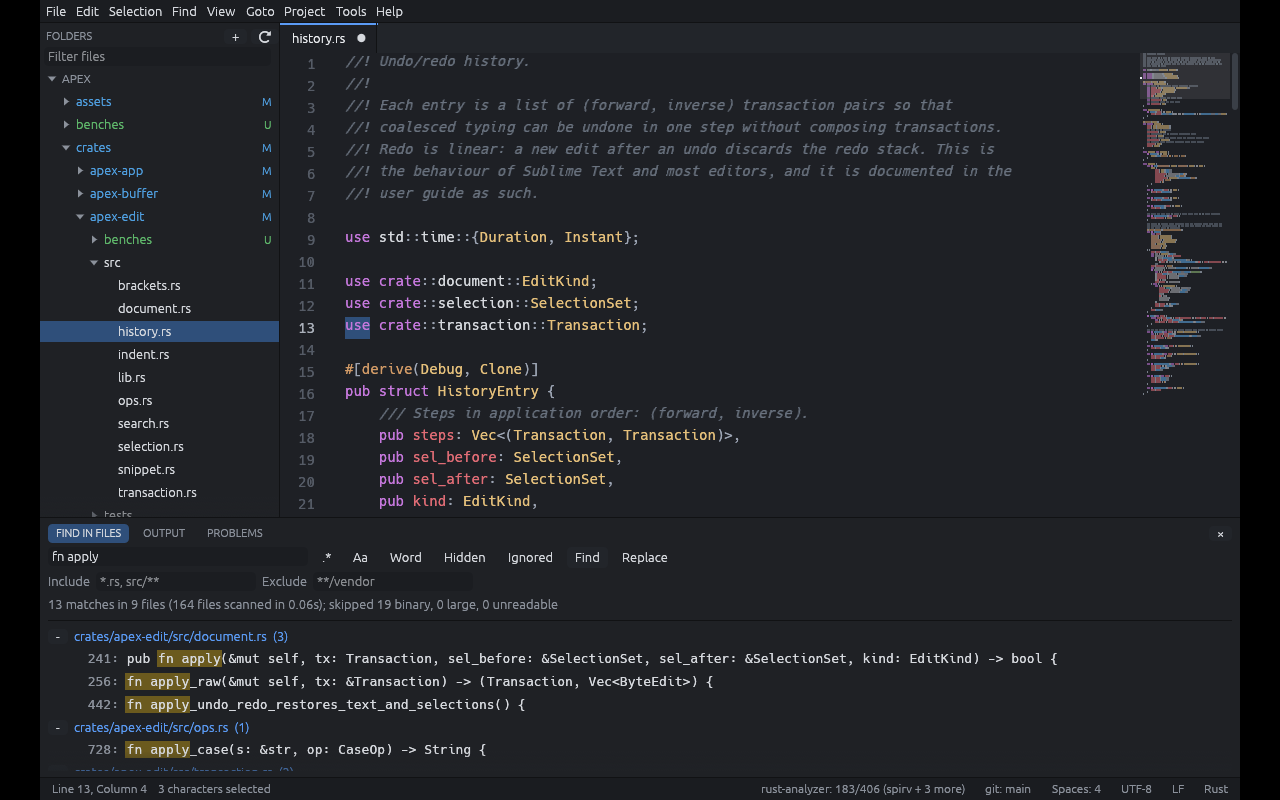
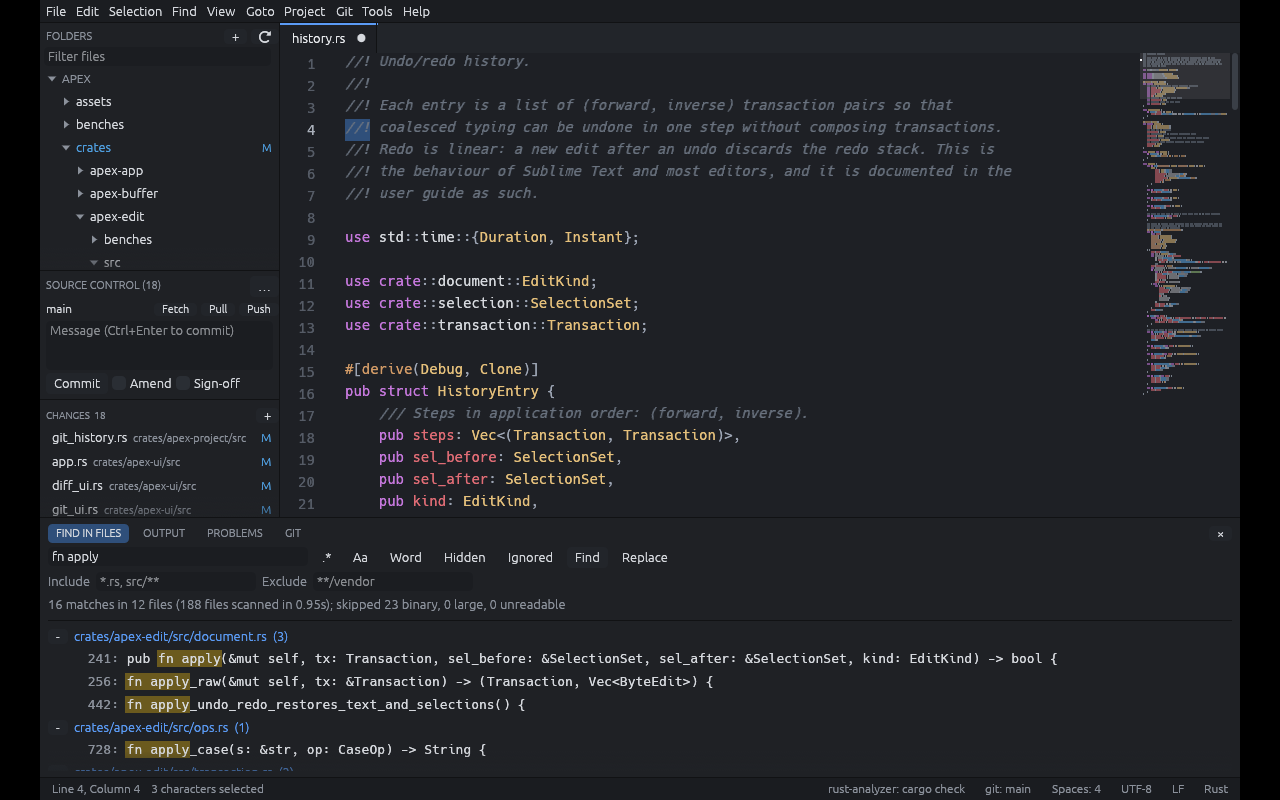
Docs: git screenshots (side-by-side, log, conflict, history editor) from tests/visual/screenshots.sh, security review of git/gh/askpass/history rewriting, architecture, README, progress log; diff opens aligned; history editor lists commits topologically; file history opens the commit; no blame colum

diff --git a/crates/apex-ui/src/git_ui.rs b/crates/apex-ui/src/git_ui.rs
@@ -345,11 +345,11 @@ impl ApexApp {
                                 label: format!("{}  {}", e.short_id, e.summary),
                                 detail: format!("{}  {}", e.date, e.author),
                                 shortcut: String::new(),
-                                payload: Payload::Text(e.id.clone()),
+                                payload: Payload::Command(Command::GitShowCommit, Some(e.id.clone())),
                                 boost: 0,
                             })
                             .collect();
-                        self.palette.show_with(PaletteMode::Prompt("history".into()), items, "File history (Enter copies the commit id)", "");
+                        self.palette.show_with(PaletteMode::Prompt("history".into()), items, "File history (Enter shows the commit)", "");
                     }
                     Err(e) => self.set_status(format!("History failed: {}", e.message()), true),
                 }

diff --git a/crates/apex-ui/src/diff_ui.rs b/crates/apex-ui/src/diff_ui.rs
@@ -305,9 +305,12 @@ impl ApexApp {
 
     fn diff_sync_scroll(&mut self, tab: ViewId, blocks: &[Block]) -> bool {
         let (Some(now), Some(st)) = (self.diff_positions(tab), self.diffs.get(&tab)) else { return false };
-        let Some(last) = st.last else { return false };
         let right_view = st.right_view;
-        let (left_moved, right_moved) = (now.0 != last.0 || now.1 != last.1, now.2 != last.2 || now.3 != last.3);
+        // First frame: the focused side (where the first change was put in view) leads.
+        let (left_moved, right_moved) = match st.last {
+            Some(last) => (now.0 != last.0 || now.1 != last.1, now.2 != last.2 || now.3 != last.3),
+            None => (!st.right_focused, st.right_focused),
+        };
         if left_moved {
             let target = diff_align::map_line(blocks, now.0 as f32, true).round() as usize;
             if let Some(r) = self.views.get_mut(&right_view) {

diff --git a/crates/apex-ui/src/app.rs b/crates/apex-ui/src/app.rs
@@ -3590,9 +3590,10 @@ impl ApexApp {
         self.syntax_tick(did);
         let fold_regions = self.fold_regions_for(did);
         let git_marks = self.git_marks_for(did);
-        let blame = self.git_blame_column(did, char_width);
+        // Blame belongs to the file's own tab, not to the halves of a diff.
+        let blame = if diff_side.is_none() { self.git_blame_column(did, char_width) } else { None };
         let conflict_tints = if tints.is_none() { self.git_conflicts(did).map(|(t, _)| t) } else { None };
-        let inline_note = if self.settings.git_blame_inline && focused { self.git_blame_caret_note() } else { None };
+        let inline_note = if self.settings.git_blame_inline && focused && diff_side.is_none() { self.git_blame_caret_note() } else { None };
         let mut diagnostics = self.diagnostics_for(did);
         if self.spell_enabled_for(did) {
             let (first, count) = {

diff --git a/crates/apex-project/src/git_history.rs b/crates/apex-project/src/git_history.rs
@@ -89,7 +89,7 @@ pub fn load(c: &JobCtx) -> Result<(RepoFacts, Vec<CommitRecord>), String> {
     let origin = c.git_quiet(&["remote", "get-url", "origin"], None).ok().map(|s| s.trim().to_string());
     let ident = c.git_quiet(&["var", "GIT_COMMITTER_IDENT"], None).unwrap_or_default();
     let local_offset = ident.split_whitespace().last().and_then(parse_offset).unwrap_or(0);
-    let log = match c.git_quiet(&["log", "--all", "--reverse", "--date=iso-strict", LOG_FORMAT], None) {
+    let log = match c.git_quiet(&["log", "--all", "--topo-order", "--reverse", "--date=iso-strict", LOG_FORMAT], None) {
         Ok(l) => l,
         // A repository without commits has nothing to edit.
         Err(e) if e.contains("does not have any commits") => String::new(),

diff --git a/ARCHITECTURE.md b/ARCHITECTURE.md
@@ -15,8 +15,8 @@ all tested headlessly.
 | `apex-buffer`  | Rope text store (ropey), offset-space conversions, grapheme/word motion, line endings, encodings | ropey, unicode-*, encoding_rs |
 | `apex-edit`    | `Document` (text + revision + history + metadata), `Selection`/`SelectionSet`, `Transaction`, editing operations, in-document search, bracket matching, snippets | apex-buffer, regex |
 | `apex-syntax`  | Tree-sitter grammars, incremental highlighting with injections, folding, symbol extraction, declarative fallback syntaxes | apex-edit, tree-sitter |
-| `apex-project` | File I/O with atomic saves, platform paths, file index and watcher, Find in Files, git, sessions and recovery, build tasks, LSP client, spell dictionaries | apex-edit, ignore, notify, git2, serde |
-| `apex-ui`      | egui editor widget, panes/tabs, menus, find bar, palette, sidebar, settings editor, themes, key maps, Vim mode, git/tasks/LSP/spell UI | all of the above, egui |
+| `apex-project` | File I/O with atomic saves, platform paths, file index and watcher, Find in Files, git (`git` libgit2 reads, `git_cli` job runner/askpass/partial patches, `git_repo` branches/log graph/conflicts, `git_history` history rewriting, `diff_align` side-by-side alignment, `forge` remote links and `gh` JSON), sessions and recovery, build tasks, LSP client, spell dictionaries | apex-edit, ignore, notify, git2, similar, serde |
+| `apex-ui`      | egui editor widget, panes/tabs, menus, find bar, palette, sidebar, settings editor, themes, key maps, Vim mode, git UI (`git_ui` gutter, `git_ops` jobs/staging, `git_panel` Source Control, `git_blame`, `diff_ui` side-by-side diff, `git_branches`, `git_log_ui`, `history_ui`, `forge_ui`), tasks/LSP/spell UI | all of the above, egui |
 | `apex-app`     | Binary: CLI parsing, logging, single-instance IPC, macOS Apple Events, window creation | apex-ui, eframe, clap, objc2 (macOS) |
 
 The spec suggested seventeen crates; six keep the same boundaries without
@@ -166,11 +166,22 @@ repaint when something arrives:
 | Find in Files | `search::start` | cancel flag, result cap, binary/large skips |
 | Tree-sitter parse of large documents | `SyntaxState` background thread | per-frame budget in the foreground; generation id + edits-since-parse for the background result |
 | Git status and hunks | `git::start_status` | debounced; results tagged with the repo path |
+| `git`/`gh` commands | `git_cli::start_job`: one job at a time, queued | cancel kills the process group; output streamed to the GIT tab |
+| Askpass prompts | per-job loopback listener (`git_cli`) | token per job; closed with the job; 10-minute answer timeout |
+| Blame | `git::start_blame` per document | recomputed 0.7 s after edits; stale results ignored by revision |
+| Log, history editor load | worker thread / job | replaced on reload |
 | Build tasks | `tasks::run` (process groups) | cancel kills the group; timeout |
 | LSP server I/O | reader thread per server | message size limit; restart backoff |
 | File watcher | `notify` | coalesced into a rescan timer |
 | Second invocation / Apple Events | `open_requests` channel | polled every frame |
 | Native file dialogs | `file_dialogs.rs`: rfd's blocking dialog started from a worker thread (on macOS rfd runs the panel from the main dispatch queue) | latest request wins; no AppKit panel is ever started from inside winit's event handler |
+
+The side-by-side diff is not a separate widget: a diff tab's own view shows
+the base text and a second view (in no tab) shows the other side, usually
+the real document. `active_view_id` returns whichever side has focus, so all
+editing commands work on it; closing either side closes both. Alignment
+(`diff_align`) is recomputed when either side's revision changes, and the
+sides follow each other's scroll position through the block mapping.
 
 Results are tagged with the generation or revision they were computed for and
 discarded when stale, so a slow worker can never overwrite newer state.

diff --git a/docs/security/review.md b/docs/security/review.md
@@ -1,6 +1,6 @@
 # Security review
 
-Scope: Apex 0.0.1 as built from this repository. This is a review of the
+Scope: Apex 0.0.1 as built from this repository, including the Git and GitHub integration added after the 0.0.1 tag. This is a review of the
 trust boundaries in the code, what each one relies on, and what is known to
 be missing. It complements `SECURITY.md` (reporting, threat model) and
 `docs/security/file-handling.md` (data integrity).
@@ -128,11 +128,38 @@ and open files in the editor — equivalent to what it could do by running
   directory and are deleted when the file is saved or the restore is
   declined.
 
-## 7. Git
+## 7. Git and GitHub
 
-* libgit2 is used read-only except **Revert Hunk**, which rewrites the
-  buffer (not the repository) and requires confirmation. Hooks are never
-  executed because Apex never commits, checks out or merges.
+* **Reading** (status, gutter marks, blame, log, branches, diffs) uses
+  libgit2 and runs no programs, so it works in untrusted folders.
+* **Writing and network** (staging, commits, branches, merges, stash,
+  fetch/pull/push, history rewriting) run the user's `git`, and GitHub
+  features run the GitHub CLI `gh`. `git` executes repository hooks and
+  config-named programs (`core.fsmonitor`, `core.sshCommand`, filters), so
+  every such command requires the folder to be **trusted** (the same
+  prompt as build tasks). Arguments are passed as an argv list, never
+  through a shell; commit messages and patches go through stdin.
+* Commands run with `GIT_TERMINAL_PROMPT=0`, `GH_PROMPT_DISABLED=1`, no
+  stdin and, on Unix, in a new session (`setsid`) so nothing can wait on a
+  terminal the user cannot see; a job can be cancelled (process group
+  killed).
+* **Credentials**: Apex never stores passwords or tokens. When git or ssh
+  needs one, it runs Apex itself as `GIT_ASKPASS`/`SSH_ASKPASS`; the helper
+  connects to a loopback listener opened for that one job (random port,
+  random token checked per connection), the prompt is shown in a dialog,
+  and the answer is written back once. The listener closes when the job
+  ends; an unanswered prompt times out after ten minutes. `gh` keeps its
+  own login.
+* **Destructive operations ask first**: discard changes, undo commit,
+  force push (with lease), branch delete, stash drop, abort merge/rebase,
+  revert commit, detached checkout. **Edit Commit History** refuses a dirty
+  tree, tags a backup that keeps pointing at the old history, rewrites only
+  local branches and tags, and needs `FORCE` typed before a force push.
+  Its filter scripts are written to a private (0700) temporary directory
+  with every value single-quoted for `sh`, and deleted afterwards.
+* **Links**: remote URLs are built from the configured remote and only
+  `https://` links are passed to the system's opener; path segments are
+  percent-encoded.
 
 ## 8. Dependencies and build
 
@@ -162,6 +189,12 @@ and open files in the editor — equivalent to what it could do by running
    open files, which is the platform's normal behaviour.
 6. **Windows runtime directory permissions** rely on the profile ACLs
    rather than explicit 0600 modes.
+7. **Askpass token strength.** The per-job token comes from the standard
+   library's randomly keyed hasher rather than a dedicated CSPRNG. The
+   listener is loopback-only and lives for one job, so another local
+   process would need to guess it during that window.
+8. **Trusted repositories run hooks.** Trusting a folder lets its hooks
+   run whenever Apex runs `git` there, exactly as on the command line.
 
 ## Verification performed
 

diff --git a/PROGRESS.md b/PROGRESS.md
@@ -134,24 +134,66 @@ Not done on the authors' machines (needs the platform):
 Known gaps carried in `FEATURE_MATRIX.md`: one OS window per process,
 screen-reader access to the editor text, whole-file loading.
 
+## Milestone 13 — Git and GitHub integration (complete)
+
+Plan: `docs/plans/git-integration.md` (phases G1–G8). Reads stay on libgit2;
+everything that writes or reaches a remote runs the user's `git` (or `gh`)
+as a background job, trust-gated, with output in the GIT tab.
+
+* G1 staging (file, hunk, selected lines via partial patches), Git menu.
+* G2 Source Control panel in the lower sidebar; commit, amend, sign-off,
+  undo commit.
+* G3 side-by-side diff: two editor views, aligned scrolling, line and word
+  tints, per-change revert/stage/unstage.
+* G4 blame column, inline blame, commit view.
+* G5 branches, log with lane graph, line history, stash, merge conflicts
+  with continue/abort.
+* G6 fetch/pull/push/sync/force-push with lease, askpass dialog.
+* G7 remote links (GitHub, GitLab, Bitbucket, Gitea) and GitHub pull
+  requests through `gh`.
+* G8 Edit Commit History (requested): metadata/message editing, bulk author
+  replace, date spread, co-author removal, Claude/Codex filter.
+
+Verification: unit tests against real `git` in temporary repositories
+(partial staging round trips, askpass via `git credential fill`, history
+rewrite and backup tag, merge state and conflict parsing, log graph);
+`tests/visual/git.sh` drives the real editor under Xvfb through staging,
+commit/amend, blame, side-by-side staging, push/pull against a local bare
+remote, GitHub flows against a fake `gh`, branches, stash, a full conflict
+resolution and a history rewrite, checking every result with `git`.
+Not verified here: real GitHub (needs `gh auth login`), the native macOS file
+dialog (hangs inside AppKit's panel creation; in-app prompt is the macOS
+default meanwhile — see "Next step").
+
+Fixed along the way: the backup tag of a history rewrite was itself
+rewritten (Nexus had the same flaw); remote-tracking refs are no longer
+rewritten; Ctrl+Enter used the frame's modifiers instead of the event's;
+exact command names now win in the palette; Finder "Open With" handler is
+installed after AppKit's own; the Dock icon is Apex's.
+
 ## Test status
 
-Last full run (`cargo test --workspace`, 12 October 2026):
+Last full run (`cargo test --workspace`, 12 October 2026, after the Git work):
 
 | Crate | Passed |
 |---|---|
 | apex-app | 2 |
 | apex-buffer | 16 |
 | apex-edit | 42 (+ 8 property tests) |
-| apex-project | 25 |
+| apex-project | 47 |
 | apex-syntax | 15 (+1 ignored timing probe) |
-| apex-ui | 38 |
+| apex-ui | 44 |
 
 `cargo clippy --workspace --all-targets -- -D warnings` and
 `cargo fmt --all -- --check` clean.
 
 ## Next step
 
-Verify the macOS and Windows packaging scripts on those platforms (CI will
-exercise them on the next push), then tag v0.0.1 following
-`docs/development/release-process.md`.
+1. macOS: find why AppKit's open/save panel service never attaches to Apex
+   (the sample shows `-[NSSavePanel _initBridgeAndStuff]` waiting); try an
+   unbundled `cargo run`, check `codesign --verify`, and read the
+   `com.apple.ViewBridge` log during the hang. Then make the native dialog
+   the macOS default again.
+2. Check Finder "Open With" and the Dock icon on macOS.
+3. Try the GitHub features against a real repository after `gh auth login`.
+4. Tag the next release following `docs/development/release-process.md`.

diff --git a/docs/user-guide/git.md b/docs/user-guide/git.md
@@ -12,20 +12,24 @@ tasks). Untrusted folders keep the read-only features.
 
 Everything is in the **Git** menu and the command palette.
 
+![Side-by-side diff with the Source Control panel](../screenshots/git-side-by-side.png)
+
 * **Gutter marks** next to the line numbers show added, modified and deleted
   lines relative to the index (or `HEAD`, see below). They update as you
   type and after each save; the minimap shows them too.
 * **Status bar** shows the current branch (or a short commit id when
-  detached). The sidebar marks changed, added and untracked files.
+  detached) with commits to push and pull, the branch's pull request, and
+  any merge or rebase in progress. The folder tree marks changed, added,
+  untracked and conflicted files.
 * **Goto > Next Change / Previous Change** jump between hunks.
-* **Revert Hunk** (Edit menu or the gutter's right-click) restores the hunk
-  under the caret from the index after confirming. This is the only write.
+* **Revert Change…** (Git menu or right-click) restores the hunk under the
+  caret from the index after confirming, as an undoable edit of the buffer.
 * **Show Hunk Diff** pops up the hunk as a unified diff.
 * **Compare with Saved / with Index / with HEAD** opens a side-by-side diff
   of the buffer against that version (see below). `apex --diff old new`
   compares two files the same way.
 * **File History** lists the commits that touched the file; choosing one
-  opens that version read-only.
+  shows that commit.
 * **Git Status** opens a palette of changed files; choose one to open it.
 
 Settings: `git_gutter = false` turns the marks off. Large repositories are
@@ -161,6 +165,8 @@ holds your GitHub login; Apex stores no tokens. Install it and run
 
 ## Merge conflicts
 
+![A merge conflict in the editor](../screenshots/git-conflict.png)
+
 When a merge, rebase, cherry-pick or revert stops on conflicts, the status
 bar and the Source Control panel say so, and the conflicted files are listed
 under **Merge conflicts**.
@@ -188,6 +194,8 @@ on, the status bar shows the caret line's author, age and summary;
 `git_blame_inline = true` also writes it after the caret line.
 
 ## Edit Commit History
+
+![Edit Commit History](../screenshots/git-history-editor.png)
 
 **Git > Edit Commit History…** opens an editor for the metadata of every
 commit in the workspace folder's repository (all branches and tags), newest

diff --git a/README.md b/README.md
@@ -39,8 +39,11 @@ Everything works offline.
 * **Files**: encodings (UTF-8/16, Windows-125x, ISO-8859, CJK) and line
   endings detected, converted and preserved; atomic saves that never
   overwrite a file another program changed; large-file mode; hex preview.
-* **Git**: gutter marks, branch in the status bar, hunk navigation, revert
-  hunk, compare with index/HEAD/saved, file history, status palette.
+* **Git**: gutter marks, a Source Control panel (stage files, hunks or
+  lines, commit, amend), side-by-side diffs with per-change stage/revert,
+  blame, branches, log graph, stash, merge-conflict resolution,
+  fetch/pull/push with a credential prompt, commit-history editing, and
+  GitHub pull requests through the GitHub CLI.
 * **Build tasks** with trust gating, problem matchers and a Problems panel.
 * **Language servers** (optional): completion, diagnostics, hover, signature
   help, go to definition/references, rename, code actions, formatting.
@@ -58,6 +61,8 @@ Everything works offline.
 | ![Multiple cursors](docs/screenshots/multi-cursor.png) | ![Goto Anything](docs/screenshots/goto-anything.png) |
 | ![Find in Files](docs/screenshots/find-in-files.png) | ![Settings](docs/screenshots/settings.png) |
 | ![Light theme, split panes](docs/screenshots/light-theme-split.png) | ![Vim mode](docs/screenshots/vim-mode.png) |
+| ![Side-by-side diff and Source Control](docs/screenshots/git-side-by-side.png) | ![Git log](docs/screenshots/git-log.png) |
+| ![Merge conflict](docs/screenshots/git-conflict.png) | ![Edit commit history](docs/screenshots/git-history-editor.png) |
 
 ## Installation
 
